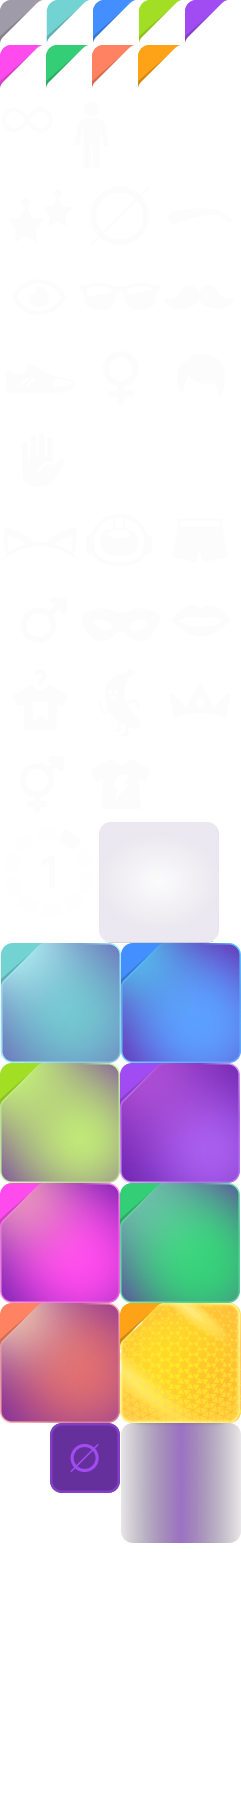
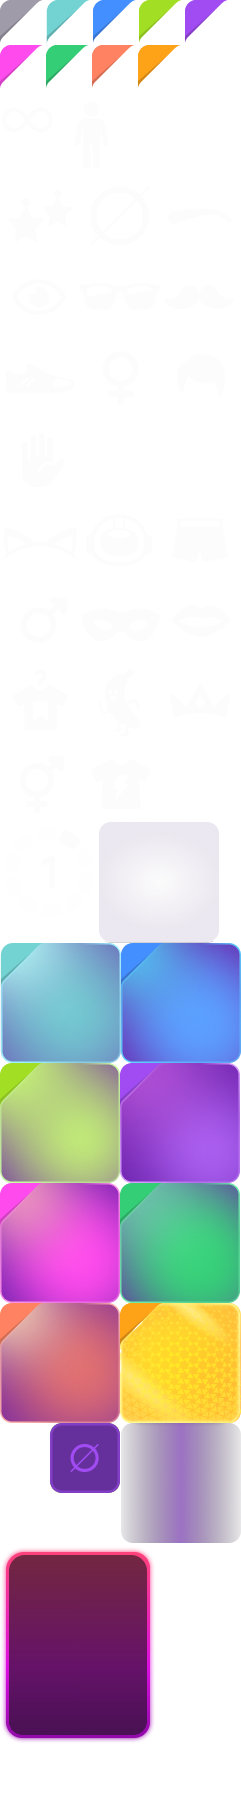
feat: backpack: wearables-catalog: add selection frame to spritesheet

Changed region(s): [[0.0, 0.84, 0.639, 0.9644]]

diff --git a/scene/src/scenes/main.tsx b/scene/src/scenes/main.tsx
@@ -9,8 +9,9 @@ let gameInstance: GameController
 
 export async function init(retry: boolean): Promise<void> {
   gameInstance = new GameController()
-  gameInstance.uiController.loadingAndLogin.startLoading()
-  // gameInstance.uiController.loadingAndLogin.finishLoading()
+  // gameInstance.uiController.loadingAndLogin.startLoading()
+  // BevyApi.loginGuest()
+   gameInstance.uiController.loadingAndLogin.finishLoading()
 
   const { description, url } = await BevyApi.checkForUpdate()
 

diff --git a/scene/src/json/backpack-data.ts b/scene/src/json/backpack-data.ts
@@ -344,6 +344,13 @@ export const backpackJson: AtlasData = {
       trimmed: false,
       spriteSourceSize: { x: 0, y: 0, w: 120, h: 120 },
       sourceSize: { w: 120, h: 120 }
+    },
+    'selection.png':{
+      frame: { x: 0, y: 1743, w: 160, h: 206 },
+      rotated: false,
+      trimmed: false,
+      spriteSourceSize: { x: 0, y: 0, w: 160, h: 206 },
+      sourceSize: { w: 160, h: 206 }
     }
   },
   meta: {
